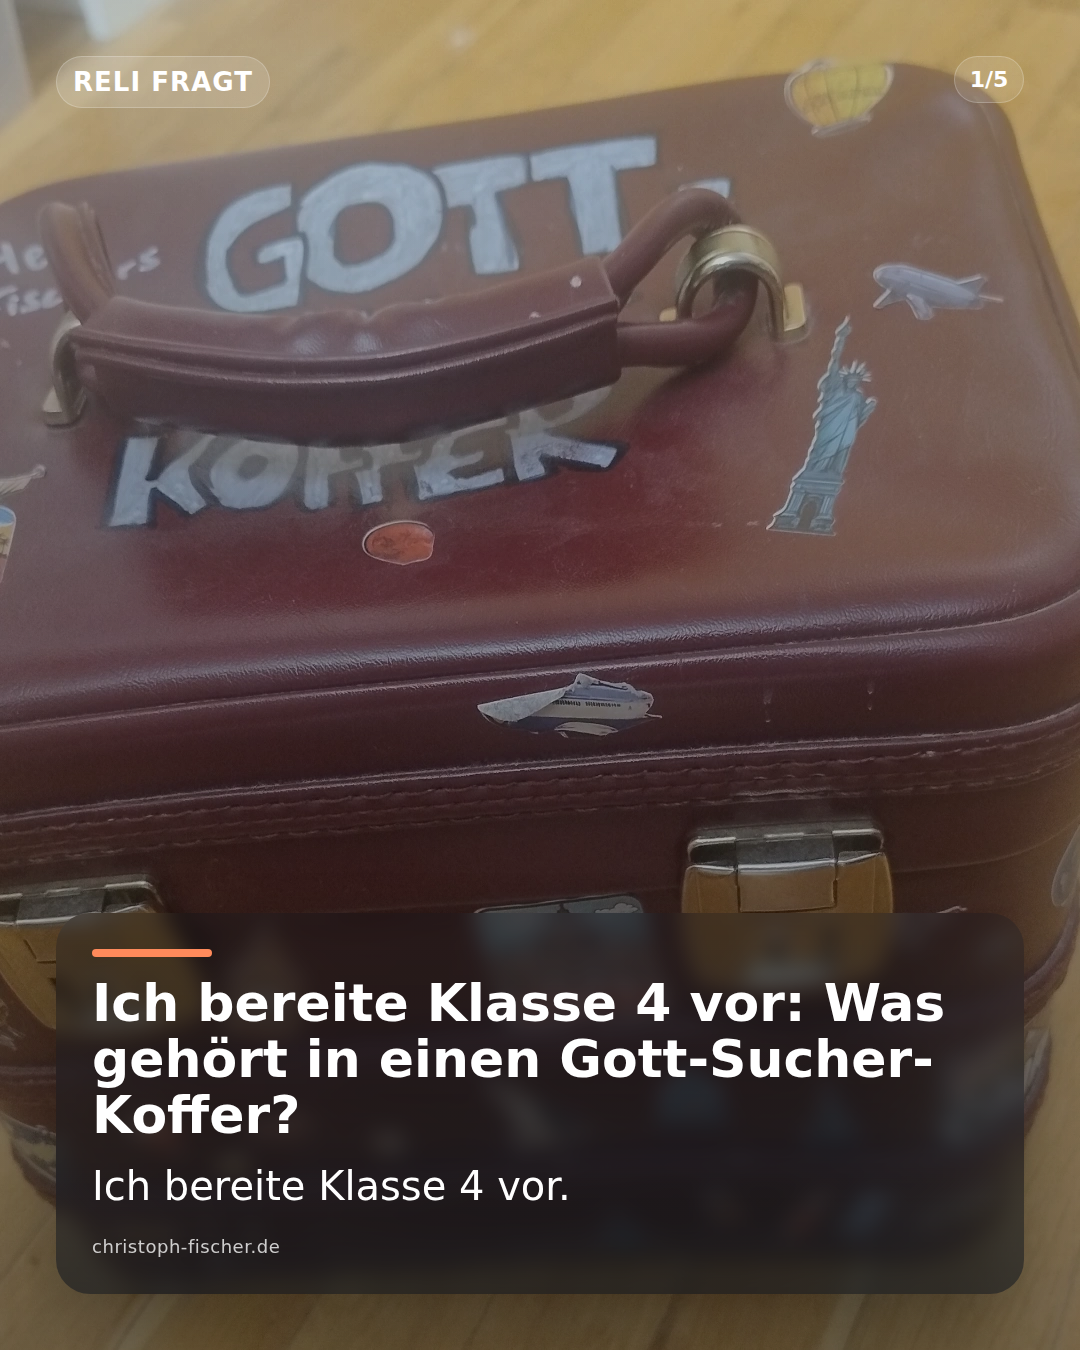
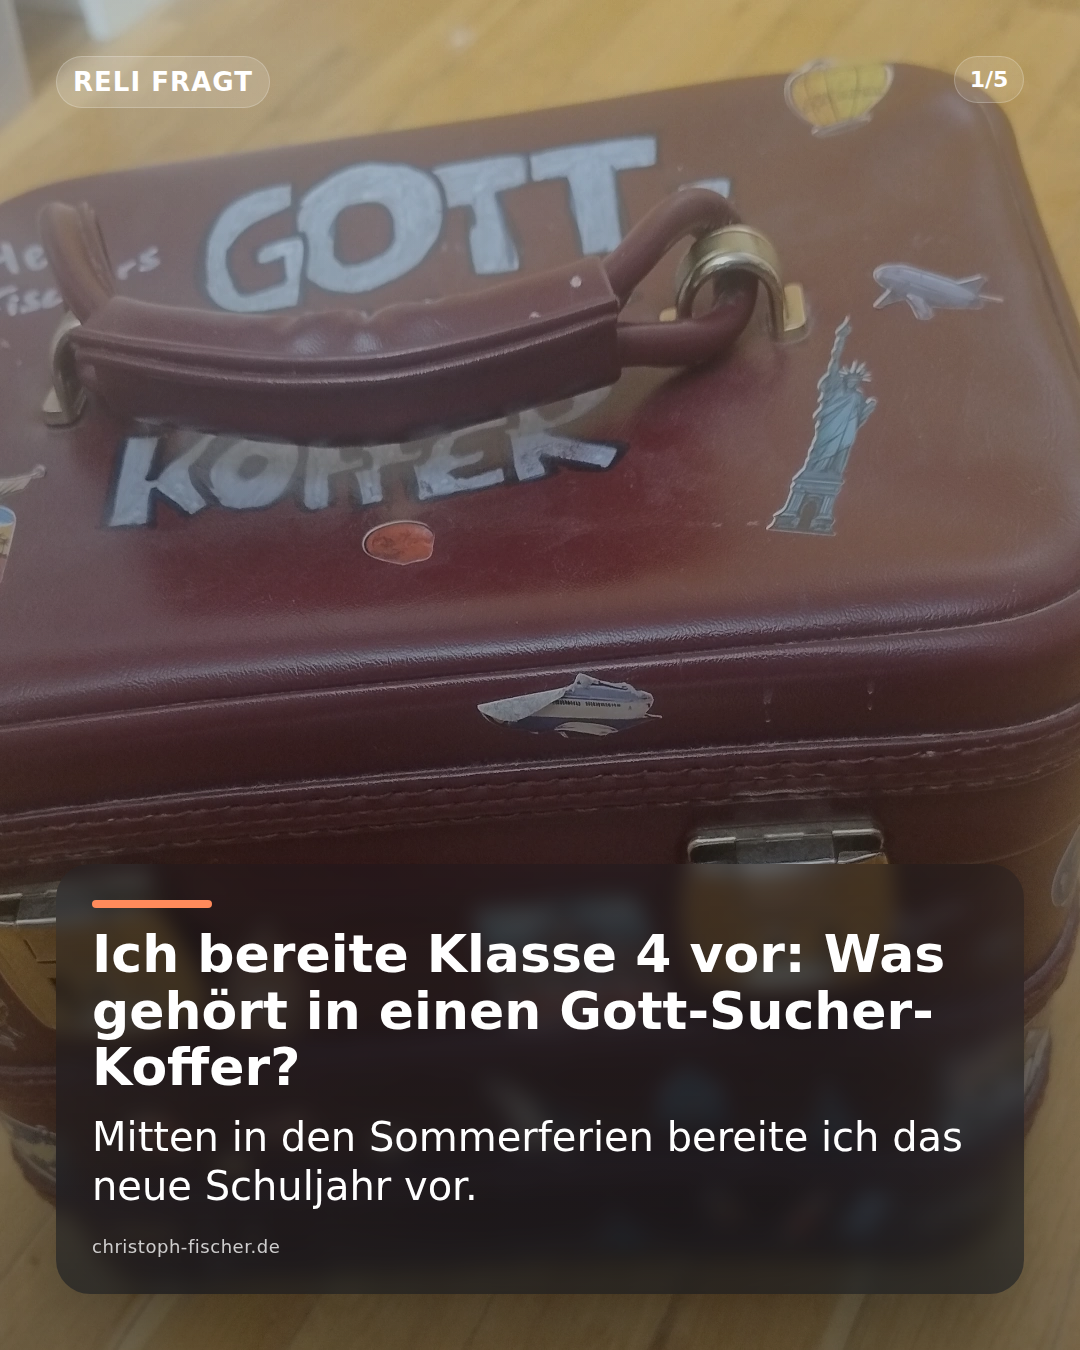
Update content: POST /api/posts/post-0004/actions/render

Changed region(s): [[0.0611, 0.6222, 0.8861, 0.9022], [0.825, 0.84, 0.8861, 0.8711], [0.7639, 0.84, 0.7944, 0.8711]]

diff --git a/2026-08-13/post-0004/render-instagram-feed-01.html b/2026-08-13/post-0004/render-instagram-feed-01.html
@@ -254,7 +254,7 @@
   <div class="accent-line"></div>
   <h1 class="title" data-overflow-id="title">Ich bereite Klasse 4 vor: Was gehört in einen Gott-Sucher-Koffer?</h1>
      
-  <p class="body-text" data-overflow-id="primary-text">Ich bereite Klasse 4 vor.</p>
+  <p class="body-text" data-overflow-id="primary-text">Mitten in den Sommerferien bereite ich das neue Schuljahr vor.</p>
      
   <p class="sender-mark">christoph-fischer.de</p>
 </section>
